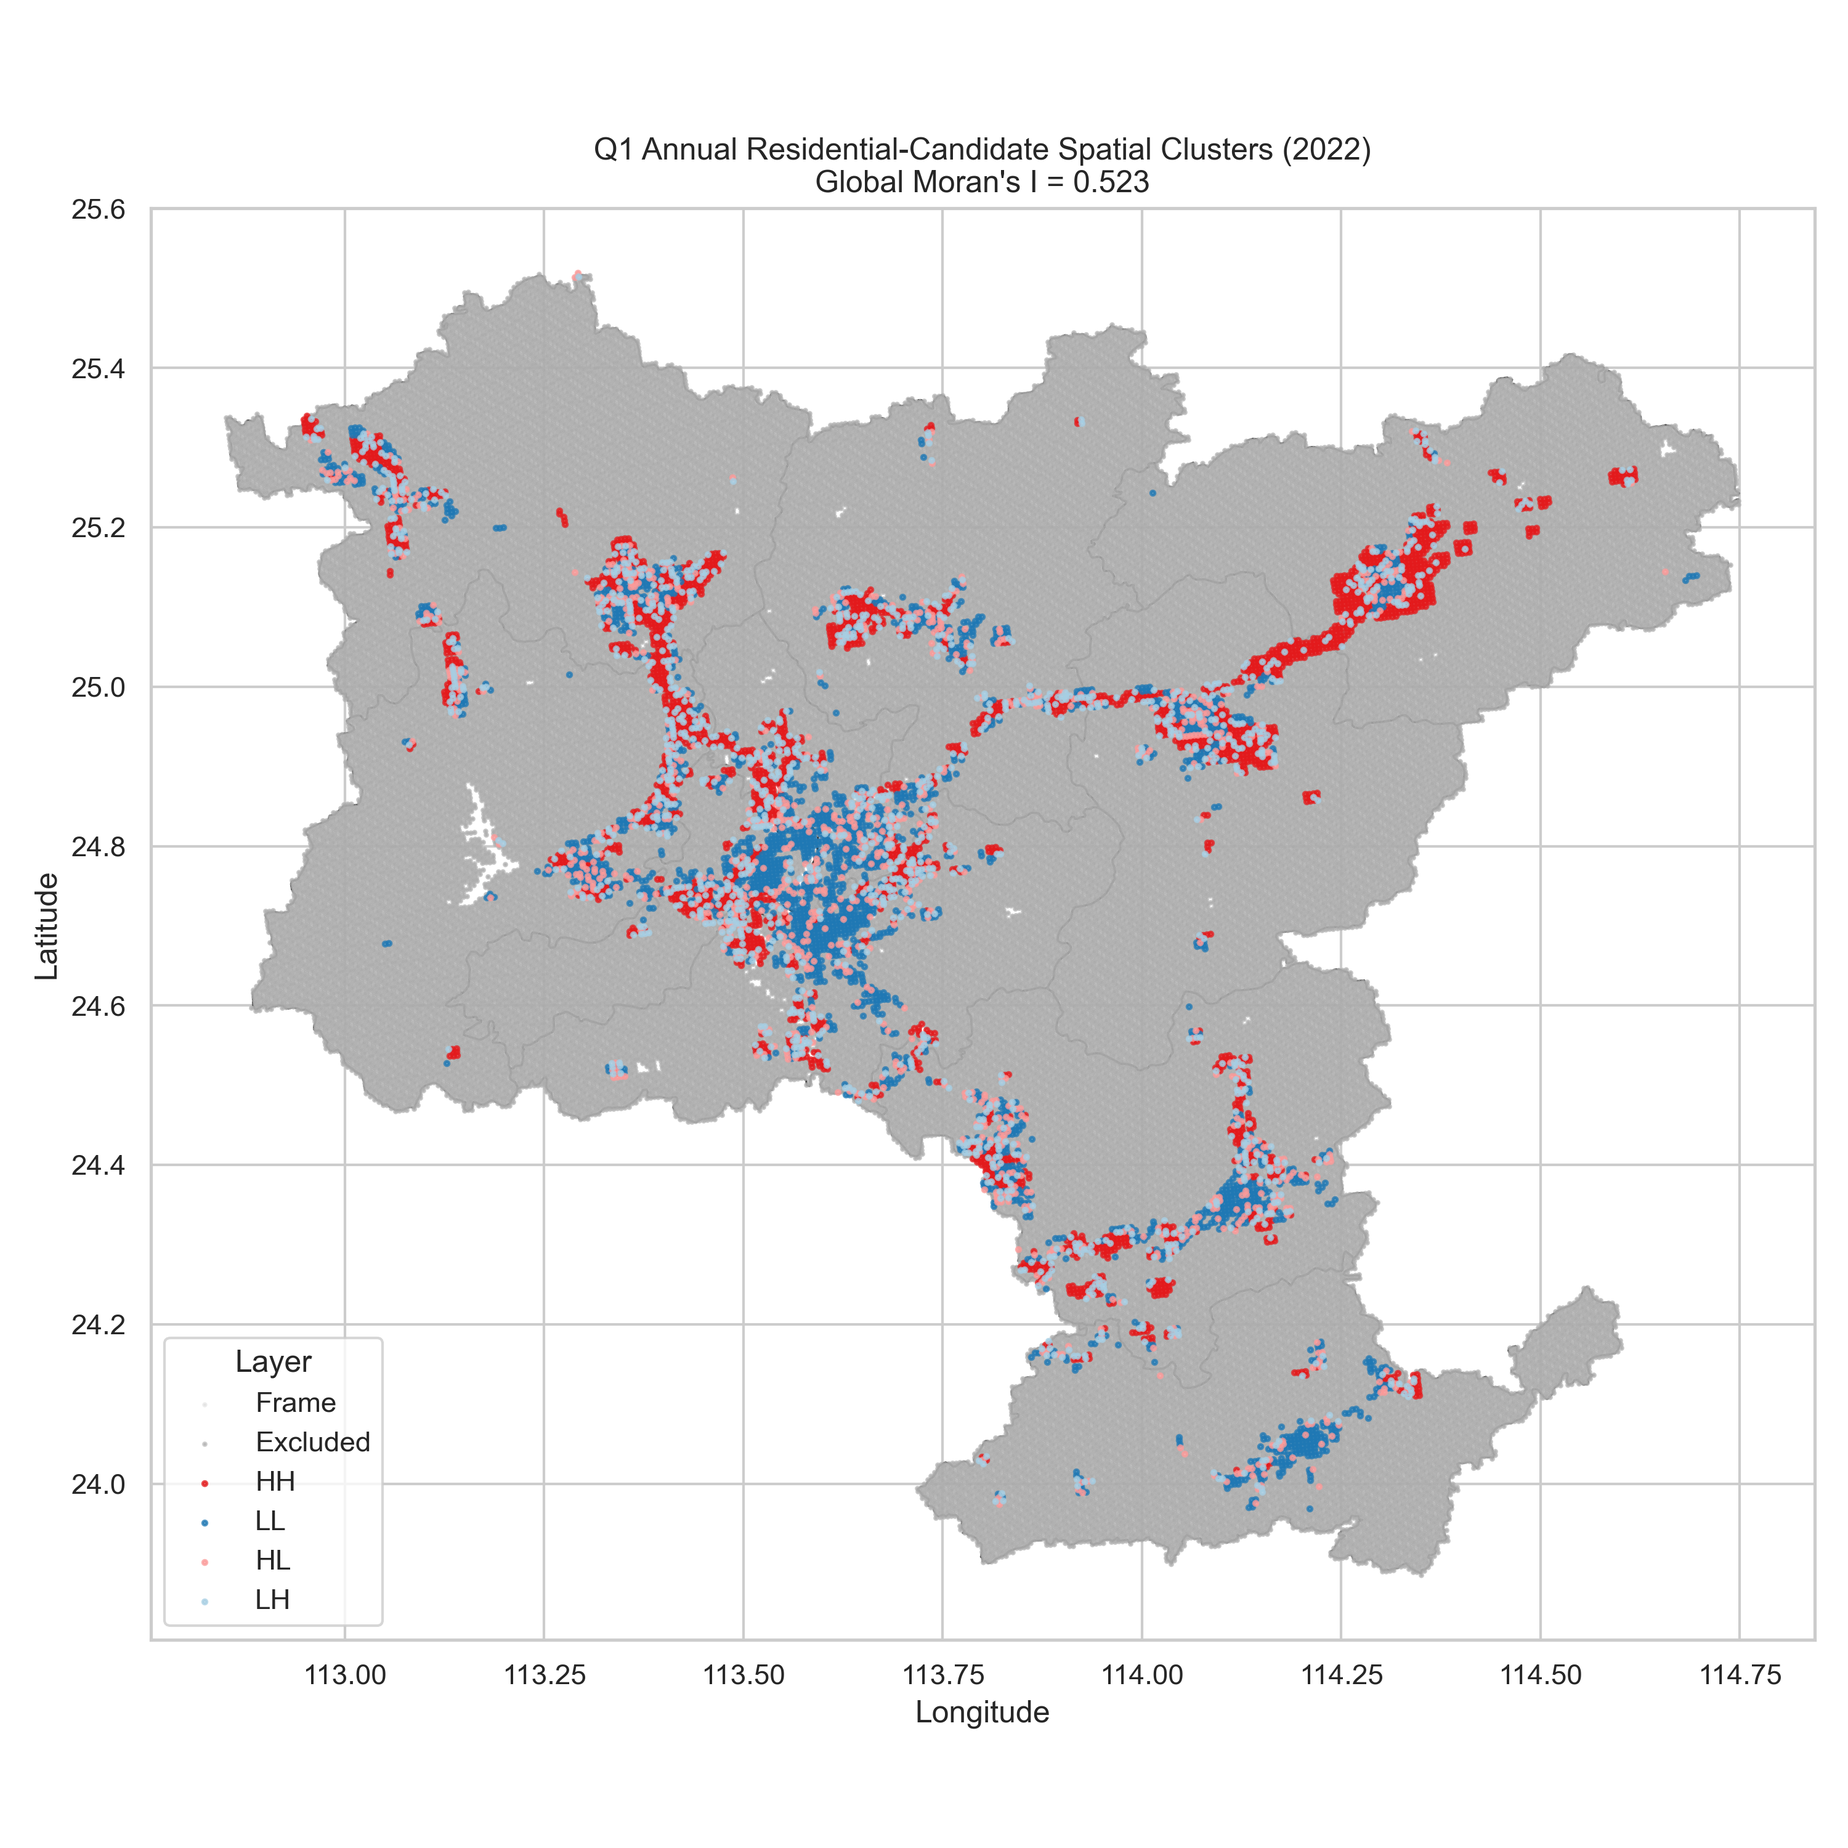
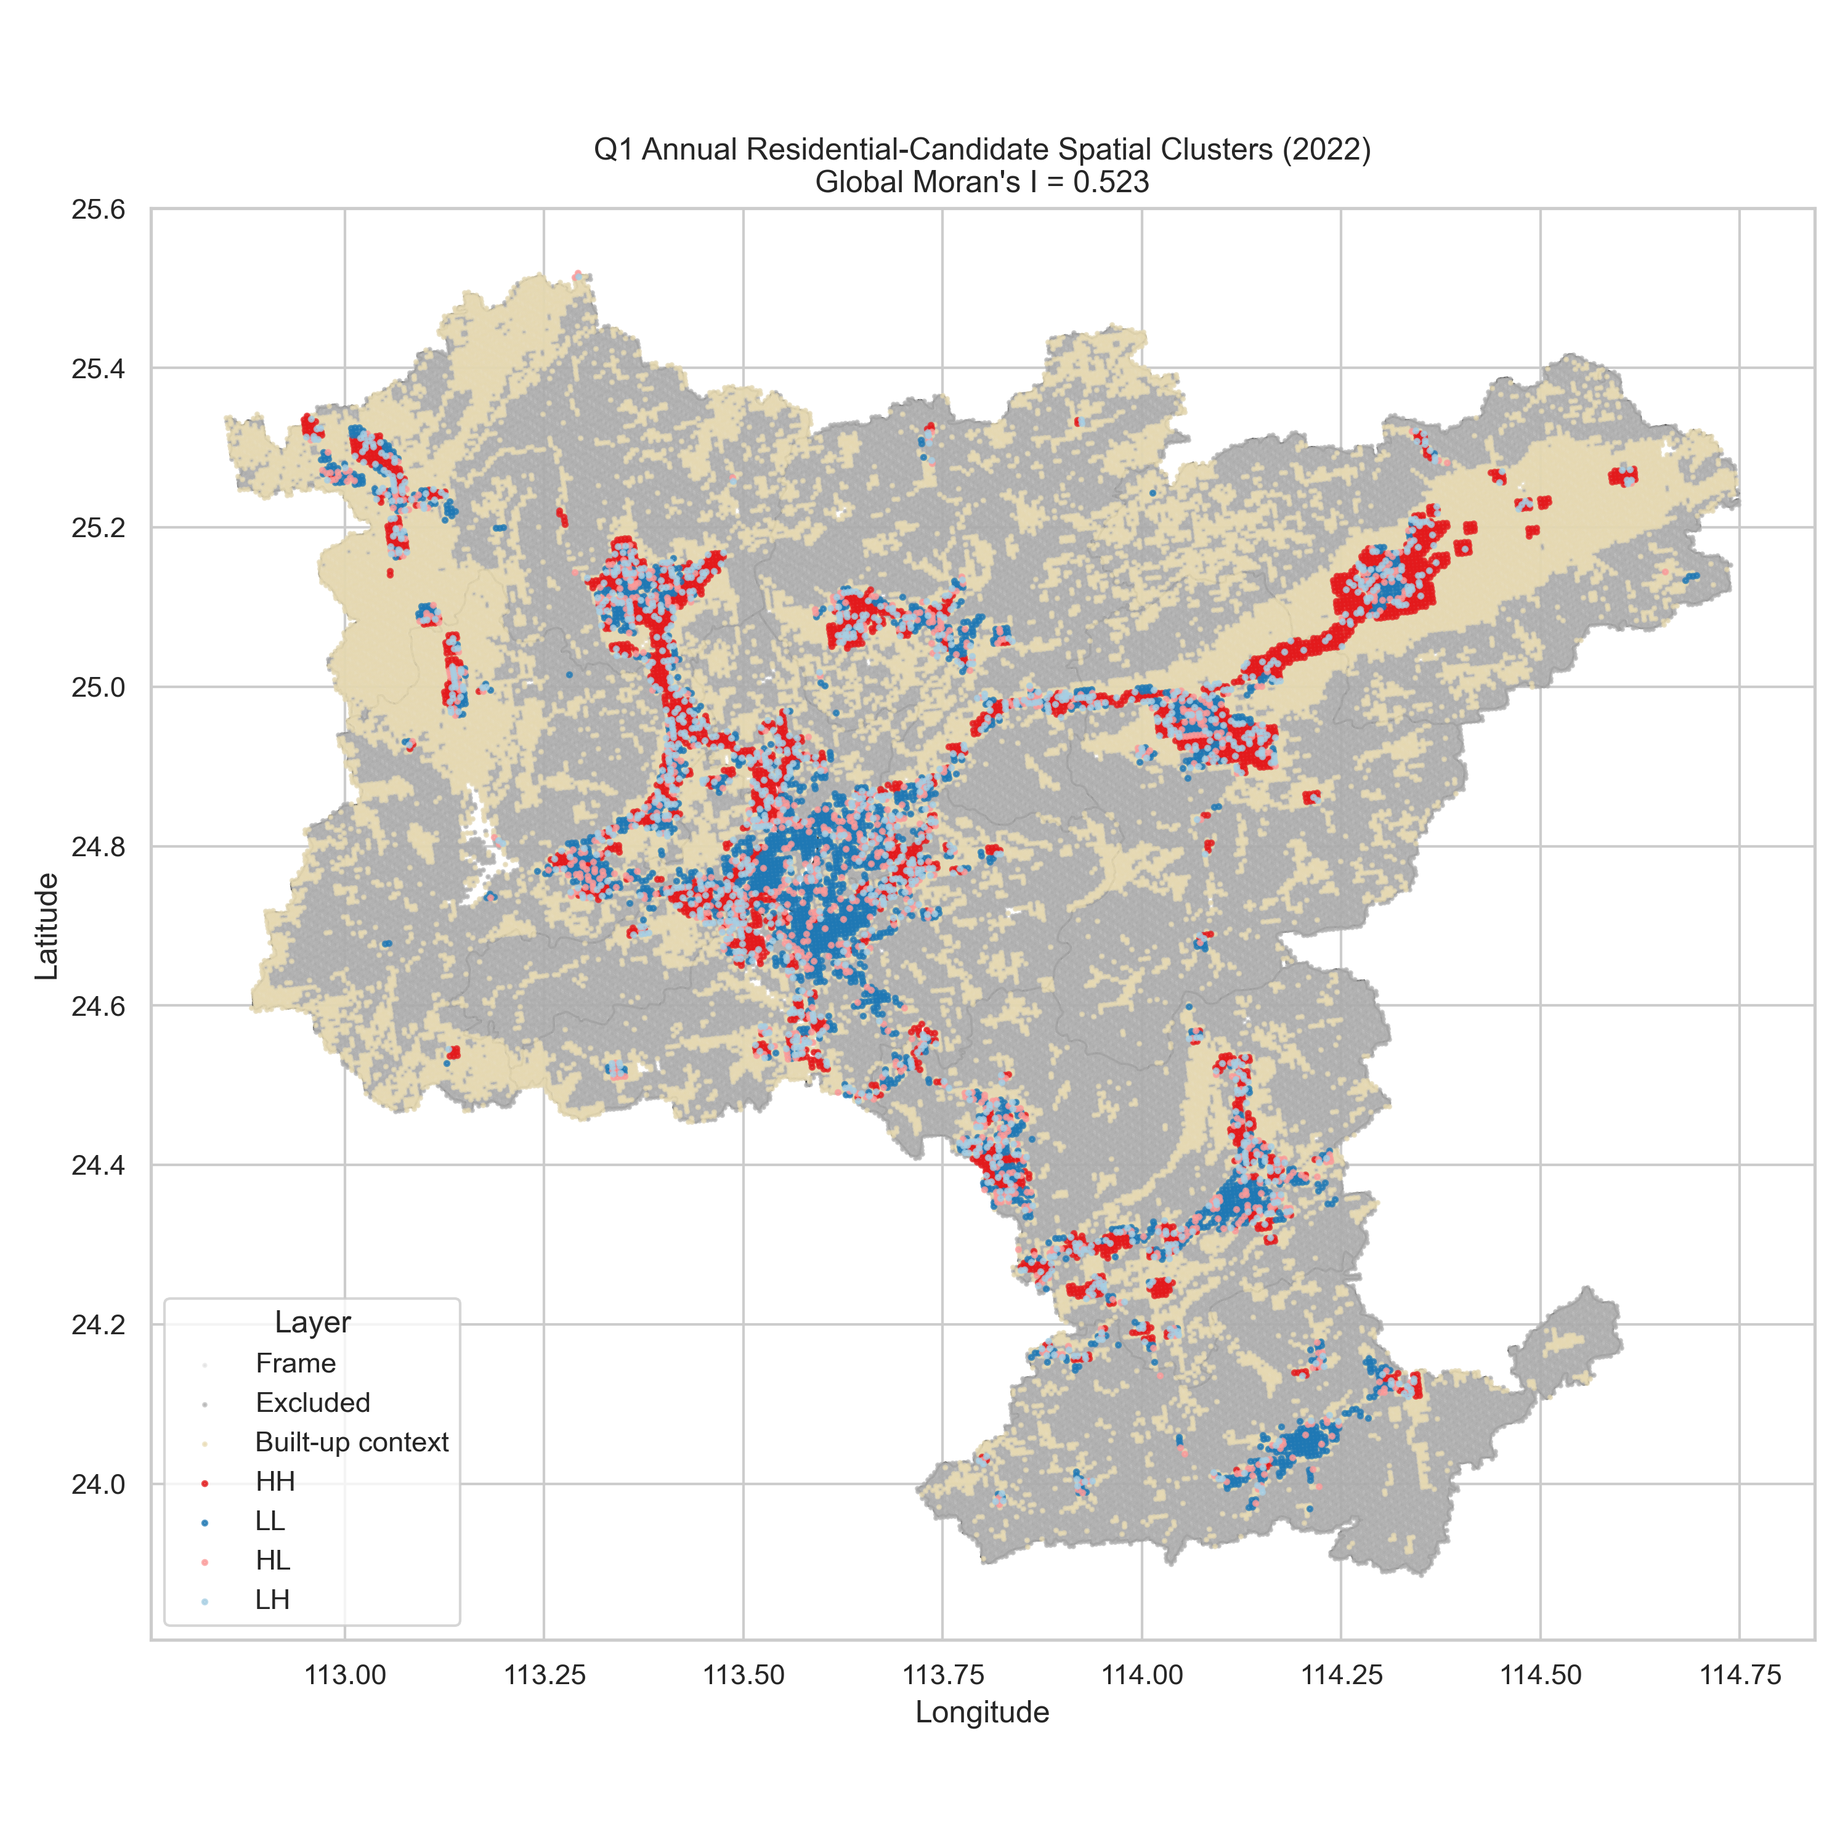
feat： 更改图例范围

Changed region(s): [[0.124, 0.124, 0.961, 0.837], [0.124, 0.713, 0.248, 0.806], [0.837, 0.713, 0.868, 0.744]]

diff --git a/Q1/05_Q1_Paper_Figures.py b/Q1/05_Q1_Paper_Figures.py
@@ -1,0 +1,154 @@
+from __future__ import annotations
+
+import json
+from pathlib import Path
+
+import matplotlib.image as mpimg
+import matplotlib.pyplot as plt
+import pandas as pd
+
+
+BASE_DIR = Path(__file__).resolve().parent.parent
+Q1_DIR = BASE_DIR / "Q1"
+OUTPUT_DIR = Q1_DIR / "output"
+BY_YEAR_DIR = OUTPUT_DIR / "by_year"
+
+plt.rcParams["font.sans-serif"] = ["SimHei", "Microsoft YaHei", "Arial Unicode MS", "DejaVu Sans"]
+plt.rcParams["axes.unicode_minus"] = False
+
+
+def build_annual_evolution_summary() -> Path:
+    summary = json.loads((BY_YEAR_DIR / "by_year_summary.json").read_text(encoding="utf-8"))
+    metrics = pd.DataFrame(summary["year_summaries"])
+
+    validated = pd.read_csv(OUTPUT_DIR / "Shaoguan_RVRI_Q1_Validated.csv")
+    rvri_means = (
+        validated.groupby("source_year", as_index=False)["rvri"]
+        .mean()
+        .rename(columns={"source_year": "year", "rvri": "rvri_mean"})
+    )
+
+    merged = metrics.merge(rvri_means, on="year", how="left").sort_values("year")
+
+    fig, ax1 = plt.subplots(figsize=(10, 6))
+    ax2 = ax1.twinx()
+
+    ax1.plot(
+        merged["year"],
+        merged["rvri_mean"],
+        color="#d62728",
+        marker="o",
+        linewidth=2.5,
+        label="RVRI mean",
+    )
+    ax2.plot(
+        merged["year"],
+        merged["spatial_moran_i"],
+        color="#1f77b4",
+        marker="s",
+        linewidth=2.5,
+        label="Global Moran's I",
+    )
+
+    for row in merged.itertuples(index=False):
+        ax1.text(row.year, row.rvri_mean + 0.006, f"{row.rvri_mean:.3f}", ha="center", va="bottom", fontsize=9)
+        ax2.text(
+            row.year,
+            row.spatial_moran_i + 0.008,
+            f"{row.spatial_moran_i:.3f}",
+            ha="center",
+            va="bottom",
+            fontsize=9,
+            color="#1f77b4",
+        )
+
+    ax1.set_xlabel("Year")
+    ax1.set_ylabel("RVRI mean", color="#d62728")
+    ax2.set_ylabel("Global Moran's I", color="#1f77b4")
+    ax1.set_xticks(merged["year"])
+    ax1.grid(True, axis="y", linestyle="--", alpha=0.3)
+    ax1.set_title("Q1 Annual Evolution Summary (2019-2023)")
+
+    lines = ax1.get_lines() + ax2.get_lines()
+    labels = [line.get_label() for line in lines]
+    ax1.legend(lines, labels, loc="upper left")
+
+    fig.tight_layout()
+    output_path = OUTPUT_DIR / "Q1_Annual_Evolution_Summary.png"
+    fig.savefig(output_path, dpi=300, bbox_inches="tight")
+    plt.close(fig)
+    return output_path
+
+
+def build_lisa_comparison() -> Path:
+    fig, axes = plt.subplots(1, 2, figsize=(16, 8))
+    years = [2019, 2023]
+
+    for ax, year in zip(axes, years):
+        image_path = BY_YEAR_DIR / str(year) / "Q1_LISA_Map.png"
+        image = mpimg.imread(image_path)
+        ax.imshow(image)
+        ax.set_title(f"LISA clusters in {year}")
+        ax.axis("off")
+
+    fig.suptitle("Q1 Residential-Risk Spatial Cluster Comparison: 2019 vs 2023", fontsize=16)
+    fig.tight_layout()
+    output_path = OUTPUT_DIR / "Q1_LISA_Comparison_2019_2023.png"
+    fig.savefig(output_path, dpi=300, bbox_inches="tight")
+    plt.close(fig)
+    return output_path
+
+
+def build_district_risk_profile() -> Path:
+    # Values match the residential-candidate summary used in the paper table.
+    district_rows = [
+        ("南雄市", 859, 1.9711, 0.8766, 0.6206),
+        ("始兴县", 848, 2.1635, 0.6050, 0.5857),
+        ("翁源县", 1334, 2.3492, 0.4490, 0.5584),
+        ("乳源瑶族自治县", 733, 2.5009, 0.3479, 0.5440),
+        ("仁化县", 714, 1.9743, 0.2983, 0.5483),
+        ("乐昌市", 1086, 2.1099, 0.2974, 0.5422),
+        ("浈江区", 752, 4.6847, 0.2101, 0.5228),
+        ("武江区", 639, 7.5738, 0.2081, 0.4966),
+        ("新丰县", 417, 4.8260, 0.1990, 0.5080),
+        ("曲江区", 993, 4.4529, 0.1772, 0.5194),
+        ("边缘争议区", 30, 1.6526, 0.1333, 0.5395),
+    ]
+    profile = pd.DataFrame(
+        district_rows,
+        columns=["district_name", "candidate_rows", "mean_light", "hh_share", "mean_rvri"],
+    ).sort_values("mean_rvri", ascending=True)
+
+    fig, ax1 = plt.subplots(figsize=(10, 7))
+    ax2 = ax1.twiny()
+
+    ax1.barh(profile["district_name"], profile["mean_rvri"], color="#d95f02", alpha=0.85, label="Mean RVRI")
+    ax2.plot(profile["hh_share"], profile["district_name"], color="#1b9e77", marker="o", linewidth=2.2, label="HH share")
+
+    for row in profile.itertuples(index=False):
+        ax1.text(row.mean_rvri + 0.005, row.district_name, f"{row.mean_rvri:.3f}", va="center", fontsize=9)
+        ax2.text(row.hh_share + 0.01, row.district_name, f"{row.hh_share:.2f}", va="center", fontsize=9, color="#1b9e77")
+
+    ax1.set_xlabel("Mean RVRI")
+    ax2.set_xlabel("HH share")
+    ax1.set_title("Q1 District Risk Profile in 2023")
+    ax1.grid(True, axis="x", linestyle="--", alpha=0.3)
+
+    output_path = OUTPUT_DIR / "Q1_District_Risk_Profile_2023.png"
+    fig.tight_layout()
+    fig.savefig(output_path, dpi=300, bbox_inches="tight")
+    plt.close(fig)
+    return output_path
+
+
+def main() -> None:
+    summary_path = build_annual_evolution_summary()
+    comparison_path = build_lisa_comparison()
+    district_path = build_district_risk_profile()
+    print(f"Saved annual evolution figure to: {summary_path}")
+    print(f"Saved LISA comparison figure to: {comparison_path}")
+    print(f"Saved district profile figure to: {district_path}")
+
+
+if __name__ == "__main__":
+    main()

diff --git a/Q1/03_RVRI_Advanced_Validation.py b/Q1/03_RVRI_Advanced_Validation.py
@@ -24,7 +24,9 @@ PRIMARY_DISTRICT_GEOJSON = DATA_DIR / "shaoguan_districts_official.json"
 DEFAULT_URBAN_QUANTILE = 0.75
 DEFAULT_CORE_QUANTILE = 0.90
 MORAN_PERMUTATIONS = 99
-DEFAULT_RESIDENTIAL_MIN_NDVI = 0.10
+0.05
+DEFAULT_DISPLAY_URBAN_QUANTILE = 0.60
+DEFAULT_DISPLAY_MIN_NDVI = 0.05
 
 plt.rcParams["font.sans-serif"] = ["SimHei"]
 plt.rcParams["axes.unicode_minus"] = False
@@ -188,6 +190,7 @@ def select_residential_candidate_snapshot(
     poi_counts: pd.Series | None = None,
     urban_quantile: float = DEFAULT_URBAN_QUANTILE,
     min_ndvi: float = DEFAULT_RESIDENTIAL_MIN_NDVI,
+    require_settlement_context: bool = True,
 ) -> dict:
     working = snapshot.dropna(subset=["rvri", "ndbi", "ndvi", "light", "col", "row"]).copy()
     if "poi_count" in working.columns:
@@ -213,7 +216,7 @@ def select_residential_candidate_snapshot(
     working["residential_candidate"] = (
         working["passes_builtup"]
         & working["passes_non_barren"]
-        & working["passes_settlement_context"]
+        & (working["passes_settlement_context"] if require_settlement_context else True)
     )
 
     candidates = working[working["residential_candidate"]].copy()
@@ -227,6 +230,7 @@ def select_residential_candidate_snapshot(
         "positive_light_candidate_rows": int(candidates["light"].fillna(0).gt(0).sum()),
         "neighbor_light_context_rows": int(candidates["neighbor_positive_light"].sum()),
         "poi_context_rows": int(candidates["poi_count"].gt(0).sum()),
+        "require_settlement_context": bool(require_settlement_context),
     }
     return {"snapshot": candidates, "summary": summary}
 
@@ -436,6 +440,7 @@ def plot_method_effectiveness(snapshot: pd.DataFrame, output_path: Path) -> None
 
 def plot_lisa_like_map(
     candidate_snapshot: pd.DataFrame,
+    display_snapshot: pd.DataFrame,
     full_snapshot: pd.DataFrame,
     output_path: Path,
     year: int,
@@ -445,9 +450,13 @@ def plot_lisa_like_map(
     colors = {"HH": "#e31a1c", "LL": "#1f78b4", "HL": "#fb9a99", "LH": "#a6cee3"}
     district_geojson_path = district_geojson_path or PRIMARY_DISTRICT_GEOJSON
     candidate_ids = set(candidate_snapshot["grid_id"].astype(str).tolist())
+    display_ids = set(display_snapshot["grid_id"].astype(str).tolist())
     background_snapshot = full_snapshot.copy()
     background_snapshot["grid_id"] = background_snapshot["grid_id"].astype(str)
-    excluded_snapshot = background_snapshot[~background_snapshot["grid_id"].isin(candidate_ids)].copy()
+    excluded_snapshot = background_snapshot[~background_snapshot["grid_id"].isin(display_ids)].copy()
+    display_only_snapshot = background_snapshot[
+        background_snapshot["grid_id"].isin(display_ids) & ~background_snapshot["grid_id"].isin(candidate_ids)
+    ].copy()
 
     plt.figure(figsize=(10, 10))
     ax = plt.gca()
@@ -476,6 +485,16 @@ def plot_lisa_like_map(
             alpha=0.55,
             label="Excluded",
             zorder=3,
+        )
+    if not display_only_snapshot.empty:
+        ax.scatter(
+            display_only_snapshot["cx"],
+            display_only_snapshot["cy"],
+            s=1.4,
+            c="#e6d8ad",
+            alpha=0.60,
+            label="Built-up context",
+            zorder=3.2,
         )
     for cluster, color in colors.items():
         subset = candidate_snapshot[candidate_snapshot["cluster"] == cluster]
@@ -541,6 +560,13 @@ def _write_validation_outputs(
     urban_snapshot = snapshot[snapshot["ndbi"] >= urban_threshold].copy()
     poi_counts = count_pois_by_grid(grid, lattice, poi_features)
     residential_candidates = select_residential_candidate_snapshot(snapshot, poi_counts=poi_counts)
+    display_candidates = select_residential_candidate_snapshot(
+        snapshot,
+        poi_counts=poi_counts,
+        urban_quantile=DEFAULT_DISPLAY_URBAN_QUANTILE,
+        min_ndvi=DEFAULT_DISPLAY_MIN_NDVI,
+        require_settlement_context=False,
+    )
     moran_snapshot = residential_candidates["snapshot"]
     moran = compute_moran_metrics(moran_snapshot)
     poi_validation = compute_poi_validation(snapshot, poi_counts)
@@ -549,6 +575,7 @@ def _write_validation_outputs(
     plot_method_effectiveness(urban_snapshot, output_dir / "Q1_RVRI_Scientific_Check.png")
     plot_lisa_like_map(
         candidate_snapshot=moran["snapshot"],
+        display_snapshot=display_candidates["snapshot"],
         full_snapshot=snapshot,
         output_path=output_dir / "Q1_LISA_Map.png",
         year=snapshot_year,

diff --git a/tests/q1/test_annual_validation.py b/tests/q1/test_annual_validation.py
@@ -192,6 +192,40 @@ def test_select_residential_candidates_excludes_barren_remote_cells_but_keeps_da
     assert result["summary"]["excluded_barren_or_remote_rows"] == 2
 
 
+def test_select_residential_candidates_can_relax_settlement_context_for_display():
+    module = load_validation_module()
+
+    snapshot = pd.DataFrame(
+        {
+            "grid_id": ["g0", "g1", "g2", "g3"],
+            "col": [0, 3, 4, 5],
+            "row": [1, 0, 0, 0],
+            "ndbi": [0.42, 0.38, 0.34, -0.10],
+            "ndvi": [0.20, 0.31, 0.28, 0.60],
+            "light": [0.0, 1.5, 0.0, 0.0],
+            "rvri": [0.95, 0.72, 0.68, 0.10],
+        }
+    )
+
+    strict_result = module.select_residential_candidate_snapshot(
+        snapshot=snapshot,
+        poi_counts=pd.Series(dtype=float),
+        urban_quantile=0.25,
+        min_ndvi=0.1,
+        require_settlement_context=True,
+    )
+    relaxed_result = module.select_residential_candidate_snapshot(
+        snapshot=snapshot,
+        poi_counts=pd.Series(dtype=float),
+        urban_quantile=0.25,
+        min_ndvi=0.1,
+        require_settlement_context=False,
+    )
+
+    assert set(strict_result["snapshot"]["grid_id"].tolist()) == {"g1", "g2"}
+    assert set(relaxed_result["snapshot"]["grid_id"].tolist()) == {"g0", "g1", "g2"}
+
+
 def test_extract_boundary_rings_supports_polygon_and_multipolygon():
     module = load_validation_module()
 
@@ -340,12 +374,20 @@ def test_plot_lisa_like_map_writes_frame_and_excluded_layers(tmp_path: Path):
             "cluster": ["HH", "LL"],
         }
     )
+    display_snapshot = pd.DataFrame(
+        {
+            "grid_id": ["g0", "g1", "g2"],
+            "cx": [0.5, 1.5, 2.5],
+            "cy": [0.5, 0.5, 0.5],
+        }
+    )
     district_path = tmp_path / "districts.geojson"
     output_path = tmp_path / "lisa.png"
     _build_district_geojson(district_path)
 
     module.plot_lisa_like_map(
         candidate_snapshot=candidate_snapshot,
+        display_snapshot=display_snapshot,
         full_snapshot=full_snapshot,
         output_path=output_path,
         year=2023,

diff --git a/Q1/Q1_Agent.md b/Q1/Q1_Agent.md
@@ -588,8 +588,9 @@ CCDM 这里衡量的是“建成强度”和“夜间活力”之间是否协调
 当前图面包含三层信息：
 
 1. 全市格网框架：浅灰色底图，用于保留韶关市整体空间轮廓；
-2. 被排除区域：深灰色格网，表示这些格网未进入住宅候选子样本；
-3. LISA 聚类层：仅对住宅候选格网着色，展示 `HH/LL/HL/LH` 四类聚集关系。
+2. 展示掩膜区域：浅卡其色格网，表示这些格网具备较宽松的建成语义背景，用于保证图面连续性和可读性；
+3. 被排除区域：深灰色格网，表示这些格网既未进入严格分析掩膜，也未进入宽松展示掩膜；
+4. LISA 聚类层：仅对严格住宅候选格网着色，展示 `HH/LL/HL/LH` 四类聚集关系。
 
 - 红色 `HH`：高风险周边仍是高风险
 - 蓝色 `LL`：低风险周边仍是低风险
@@ -619,6 +620,10 @@ CCDM 这里衡量的是“建成强度”和“夜间活力”之间是否协调
 灰色区域则应解释为：
 
 “未参与住宅空置空间聚类分析的非候选区域，包括疑似山体裸地、非建成背景区或缺乏聚落上下文支撑的格网。”
+
+浅卡其色区域则应解释为：
+
+“仅用于地图展示的宽松建成背景区。这部分区域保留在图中，是为了增强地图完整性和空间可读性，但并不直接参与 Moran's I 与 LISA 聚类统计。”
 
 按照当前 `2023` 年结果，这张图最适合支撑的答案不是：
 
